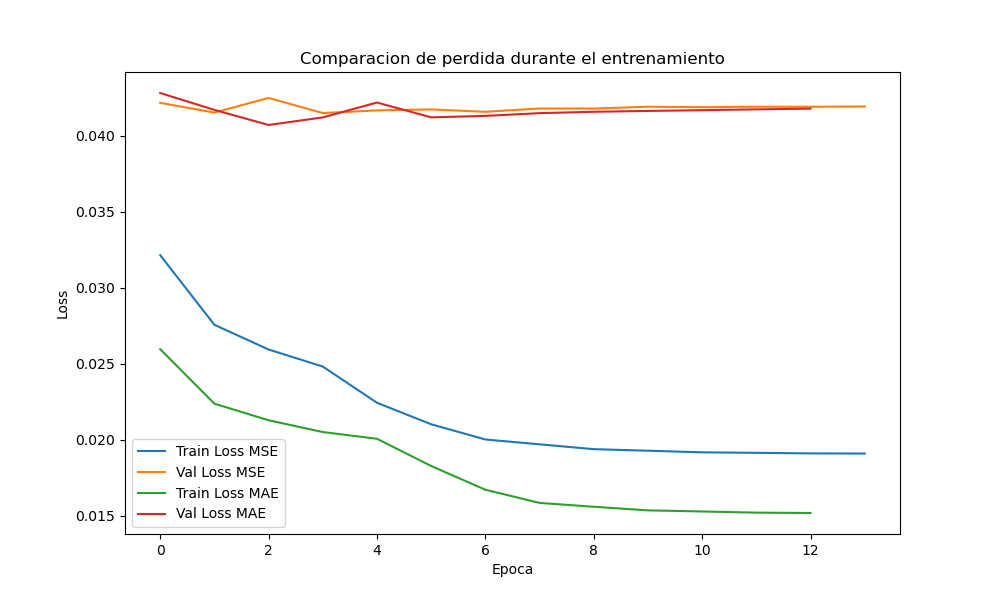
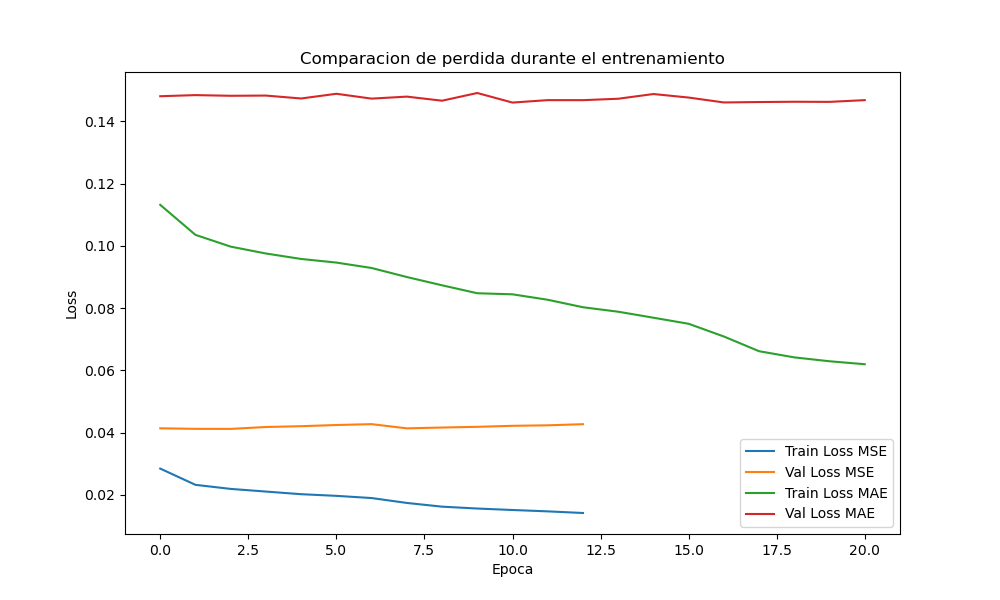
Se corrige funcion de perdida MSE vs MAE, se añade comparación de rendimiento entre los modelos, además de la función en el archivo.py y jupyter

diff --git a/Pregunta_1.py b/Pregunta_1.py
@@ -309,6 +309,19 @@ plt.ylabel('Loss')
 plt.legend()
 plt.savefig("evidencia_aumentation/grafico_comparativo.png")
 
+# Graficar rendimientos comparativos
+plt.figure(figsize=(10,6))
+plt.plot(history_mse.history['accuracy'], label='Train Loss MSE')
+plt.plot(history_mse.history['val_accuracy'], label='Val Loss MSE')
+plt.plot(history_mae.history['accuracy'], label='Train Loss MAE')
+plt.plot(history_mae.history['val_accuracy'], label='Val Loss MAE')
+plt.title('Comparacion de rendimiento durante el entrenamiento')
+plt.xlabel('Epoca')
+plt.ylabel('Rendimiento')
+plt.legend()
+plt.savefig("evidencia/grafico_comparativo_rendimiento.png")
+plt.show()
+
 # Evaluar MSE promedio sobre test para cada modelo
 def mse_promedio_test(modelo, x_test_gray, x_test_color):
     x_pred = modelo.predict(x_test_gray)
